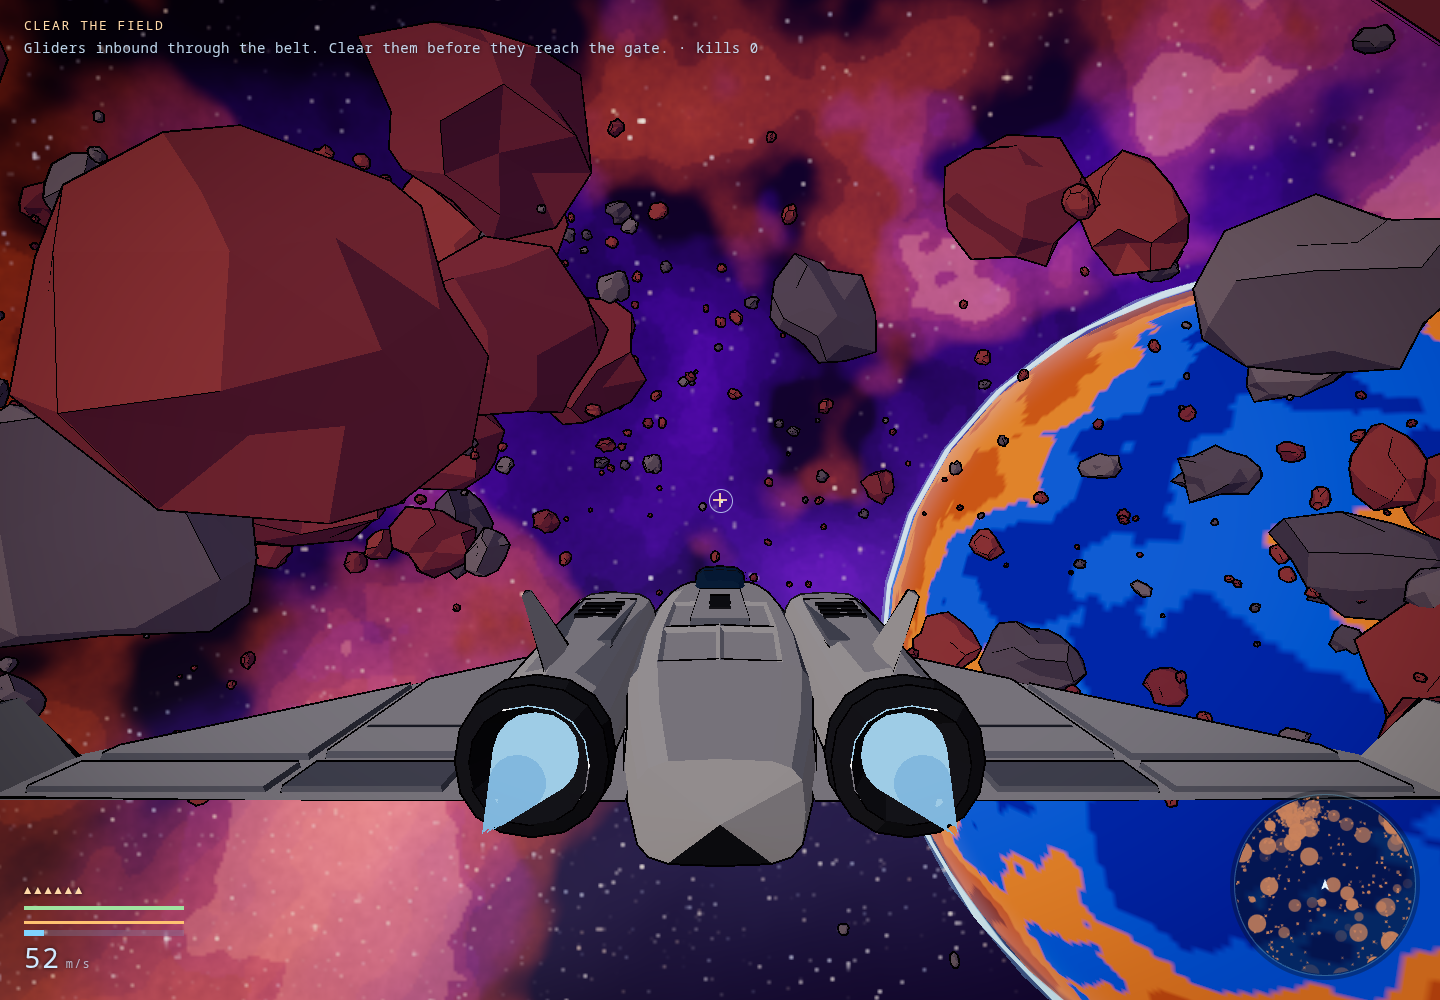
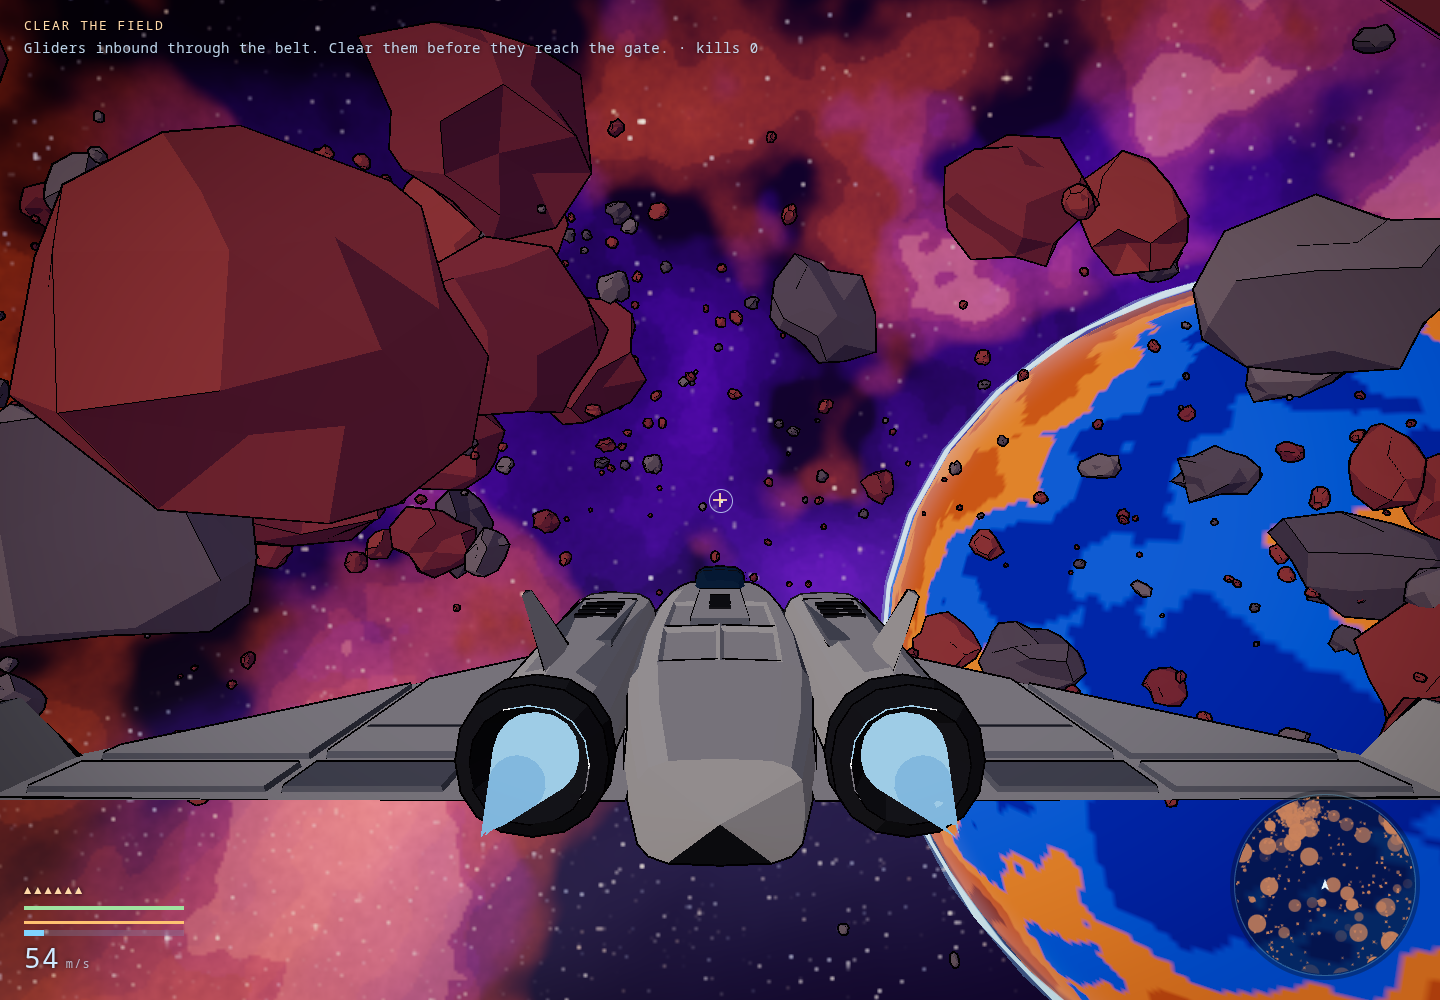
Verify selected procedural fleet with the current game and editor

Changed region(s): [[0.9375, 0.0, 1.0, 0.031], [0.9375, 0.992, 0.9688, 1.0]]

diff --git a/docs/STATUS.md b/docs/STATUS.md
@@ -4,6 +4,10 @@
 
 Ethan authorized one Blender death-glider benchmark, **no replacement yet**. Editable source, GLB, isolated Three.js inspector and offline two-model comparison are in `docs/design/blender-glider/` and `public/benchmarks/`. Review: `http://127.0.0.1:5191/benchmarks/glider-comparison.html`. The preferred procedural glider and playable fleet are unchanged. Asset loads through the existing loader; attachment axes, 24 views, live orbit, offline/mobile review and build are checked. [Evidence and integration limits](design/blender-glider/README.md). **Owner verdict:** Blender is slightly better, but the gain may not justify switching. No adoption approved. Keep the procedural glider active; retain the benchmark for reference. **Return action:** continue using the existing procedural fleet; revisit Blender only with a clearer quality benefit or fresh owner direction. This remains in the same isolated lane; do not bypass the canonical designer-work integration hold.
 
+## Fleet integration check · 2026-09-06
+
+Ethan requested applying all comparison feedback to the game while keeping procedural Three.js ships. Current main’s committed moves/editor code has been merged into this review branch. Build, fleet review, moves and editor probes pass. Normal gameplay with no art override resolves all ten hull families and player registry entries to the selected definitions (`docs/design/sg1-fleet/gameplay-defaults.json`) and requests no Blender asset. Canonical main still has reviewed uncommitted designer documentation and four screenshots; owner authorization to preserve that other session’s work as a separate commit is pending before supported lane close.
+
 ## Fleet art revision · 2026-09-06
 
 **Integration pending:** verified revision commit `923375b` is on `lane/sg1-ship-review` in `/home/ethan/projects/games/.agent-worktrees/stargate-explorer/lanes/sg1-ship-review`. The supported lane close refused because the canonical checkout has unrelated uncommitted designer work (`docs/changelog.md`, `docs/roadmap.md`, `scripts/editor-test.mjs`, and designer captures). Nothing in that checkout was overwritten. Review at `http://127.0.0.1:5191/fleet-review.html` or the worktree's offline `public/fleet-review.html`. Once the designer work is preserved by its writer, retry `agent lane close sg1-ship-review --repo /home/ethan/projects/games/stargate-explorer --into main --keep-worktree`; do not merge around the dirty-checkout refusal.

diff --git a/docs/taste.md b/docs/taste.md
@@ -28,3 +28,6 @@
 
 ### Blender benchmark verdict · 2026-09-06
 Ethan: “Blender is slightly better, but I don't know if it's enough that we would actually want to switch to it, since we already have things working in Three.js.” Record as a modest visual preference, **not approval to adopt the asset or change the pipeline**. Keep the procedural glider active and preserve the Blender source/GLB/comparison. Agent recommendation: the modest gain does not currently justify integration and maintenance; Blender would remain an authoring tool feeding Three.js, not replace Three.js. Revisit only with a clearer quality benefit or fresh owner direction.
+
+## Apply review choices · 2026-09-06
+Ethan explicitly requested keeping the current procedural approach and implementing the comparison feedback into the game. Use the selected procedural fleet in normal gameplay, retain original Al’kesh, keep SG-1-derived role variants and the refined Prometheus/Ha’tak, and leave Blender separate. Preserve earlier models via art switches.
